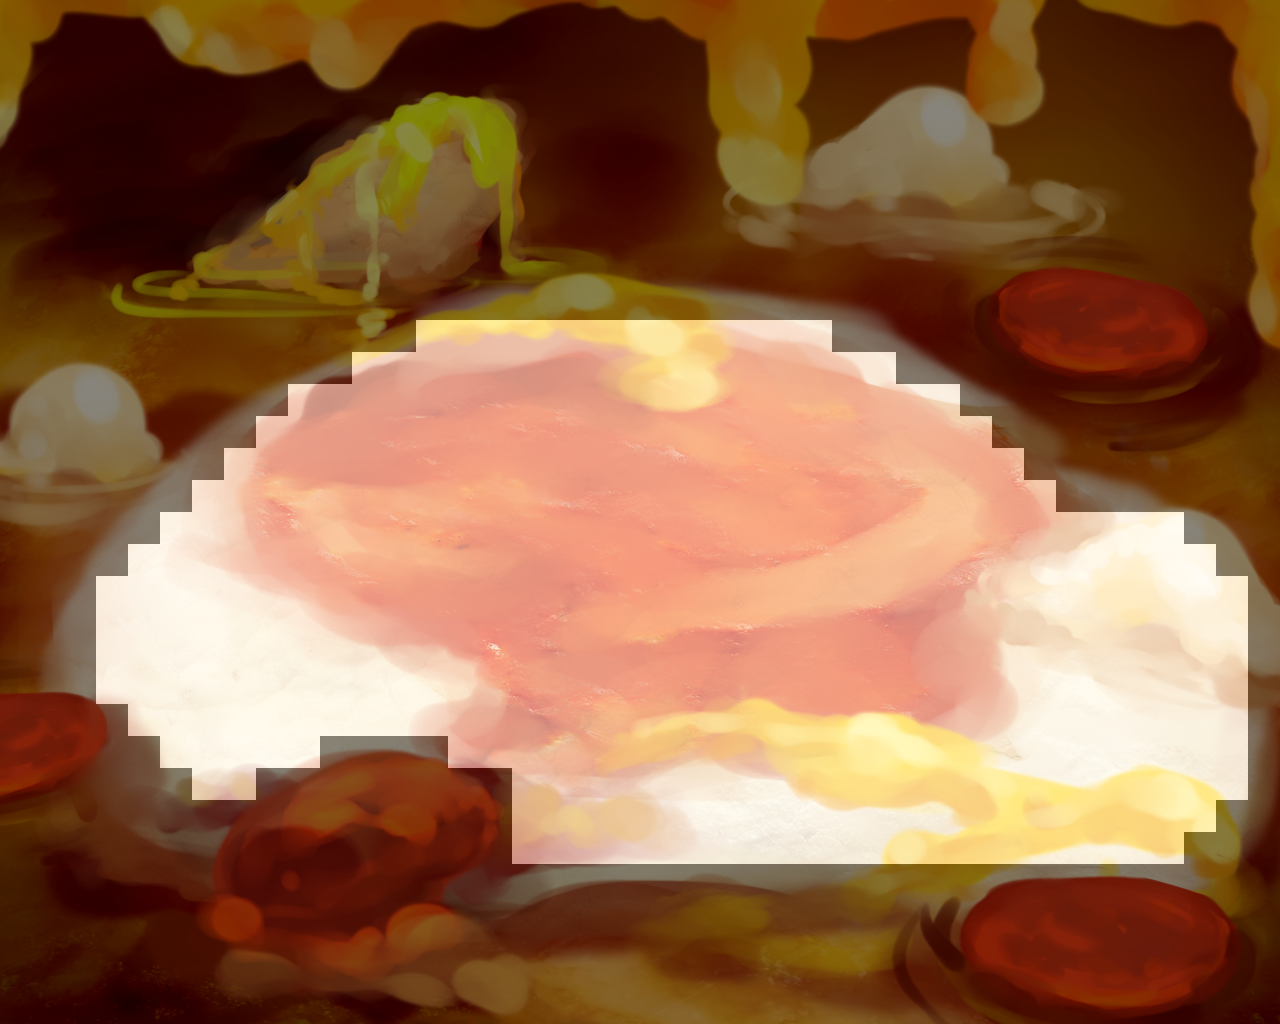
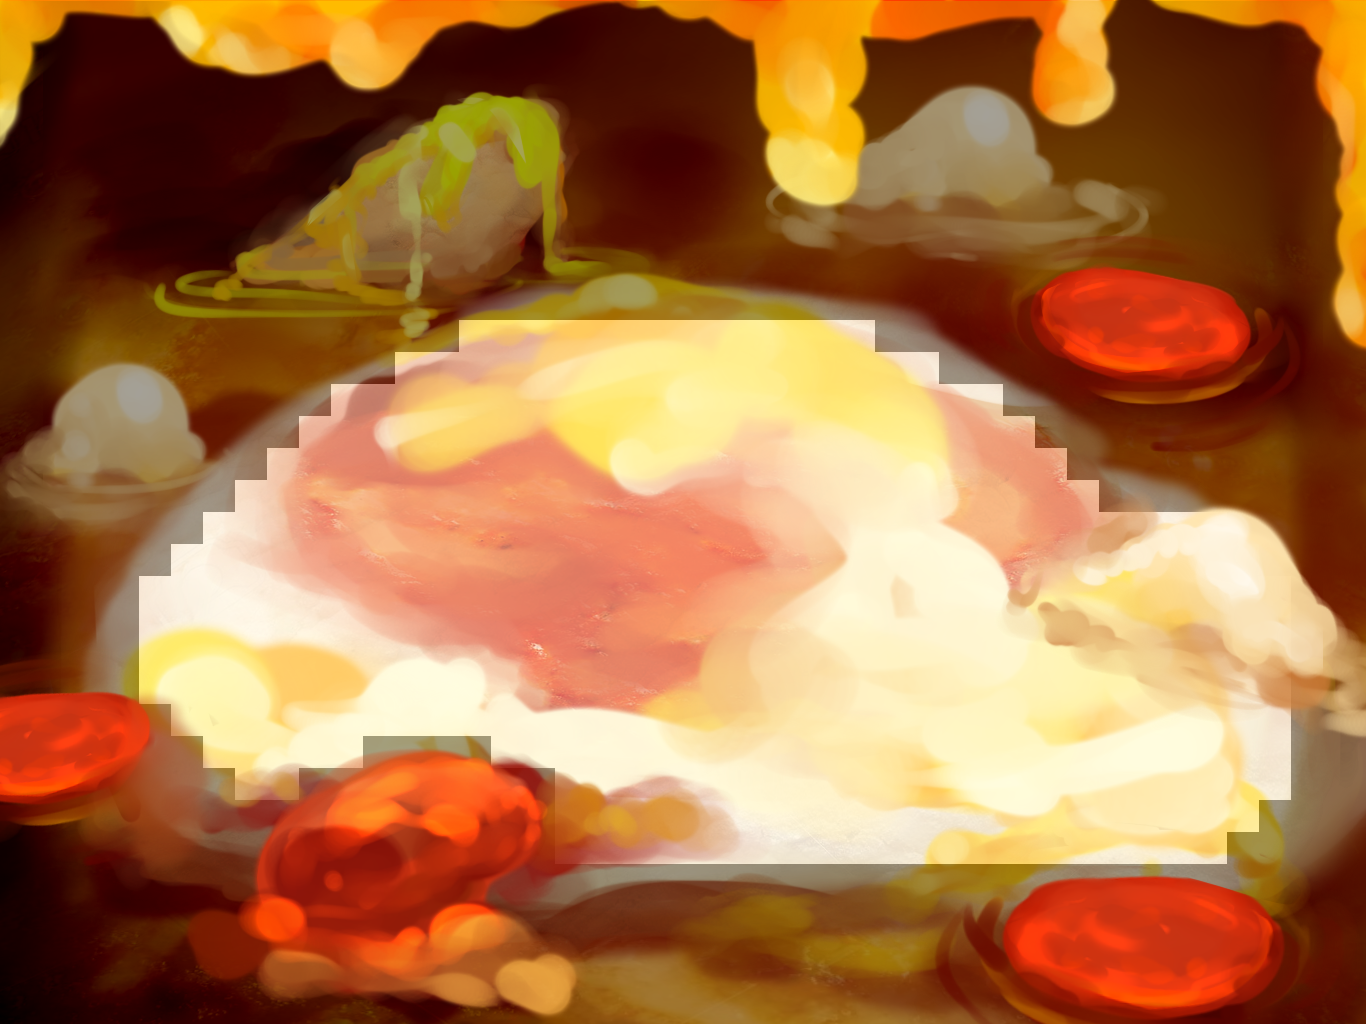
window size change and small improvements
- change window size, wider and shorter
- add foreground to dessert map
- smaller hp bars
-

diff --git a/src/maps/map_objects.cpp b/src/maps/map_objects.cpp
@@ -12,16 +12,6 @@ ECS::Entity CheeseBlob::createCheeseBlob(vec2 position)
 		RenderSystem::createSprite(resource, objectsPath("cheese-texture.png"), "bloblike");
 	}
 
-	// uncomment this if you want to try loading a textured mesh... right now it loads but its a tiny af square
-	//if (resource.mesh.vertices.size() == 0)
-	//{
-	//	// this mesh loader doesn't support textures, if you load "blob-convert-mesh.obj" it works but then there's no texture coords
-	//	// and then we can't see the image
-	//	// so we'd have to create our own obj loader...
-	//	resource.mesh.loadFromOBJFile(objectsPath("blob-mesh2.obj"));
-	//	RenderSystem::CreateTexturedMesh(resource, objectsPath("cheese-texture.png"), "bloblike");
-	//}
-
 	entity.emplace<ShadedMeshRef>(resource);
 	entity.emplace<RenderableComponent>(RenderLayer::MAP_OBJECT);
 
@@ -31,12 +21,34 @@ ECS::Entity CheeseBlob::createCheeseBlob(vec2 position)
 	motion.angle = 0.f;
 	motion.velocity = { 0.f, 0.f };
 	motion.scale = vec2({ 1.f, 1.f });
-
-	// use this scale if you're doing a mesh to see it cause their current loader normalizes the mesh size to tiny
-	//motion.scale = vec2({ 100f, -100f });
-	//motion.boundingBox = motion.scale * vec2({ resource.texture.size.x, resource.texture.size.y });
 	
 	entity.emplace<CheeseBlob>();
+
+	return entity;
+};
+
+ECS::Entity DessertForeground::createDessertForeground(vec2 position)
+{
+	auto entity = ECS::Entity();
+
+	std::string key = "dessertmap_foreground";
+	ShadedMesh& resource = cacheResource(key);
+	if (resource.effect.program.resource == 0)
+	{
+		RenderSystem::createSprite(resource, mapsPath("dessert-arena/dessert-arena-front.png"), "textured");
+	}
+
+	entity.emplace<ShadedMeshRef>(resource);
+	entity.emplace<RenderableComponent>(RenderLayer::MAP_FOREGROUND);
+
+	// Setting initial motion values
+	Motion& motion = entity.emplace<Motion>();
+	motion.position = position;
+	motion.angle = 0.f;
+	motion.velocity = { 0.f, 0.f };
+	motion.scale = vec2({ 1.f, 1.f });
+
+	entity.emplace<DessertForeground>();
 
 	return entity;
 };

diff --git a/src/main.cpp b/src/main.cpp
@@ -25,8 +25,8 @@
 
 using Clock = std::chrono::high_resolution_clock;
 
-const ivec2 window_size_in_px = {1280, 1024};
-const vec2 window_size_in_game_units = { 1280, 1024};
+const ivec2 window_size_in_px = { 1366, 900 };
+const vec2 window_size_in_game_units = { 1366, 900 };
 // Note, here the window will show a width x height part of the game world, measured in px. 
 // You could also define a window to show 1.5 x 1 part of your game world, where the aspect ratio depends on your window size.
 

diff --git a/src/game/world.cpp b/src/game/world.cpp
@@ -243,6 +243,10 @@ void WorldSystem::createMap(int frameBufferWidth, int frameBufferHeight)
 	if (config.at("map") == "pizza-arena") {
 		CheeseBlob::createCheeseBlob({ 700, 950 });
 	}
+
+	if (config.at("map") == "dessert-arena") {
+		DessertForeground::createDessertForeground({ 1920, 672 });
+	}
 }
 
 void WorldSystem::createButtons(int frameBufferWidth, int frameBufferHeight)

diff --git a/src/ui/ui_entities.cpp b/src/ui/ui_entities.cpp
@@ -18,7 +18,7 @@ ECS::Entity HPBar::createHPBar(vec2 position)
 	motion.position = position;
 	motion.angle = 0.f;
 	motion.velocity = vec2(0.f);
-	motion.scale = vec2(0.7f);
+	motion.scale = vec2(0.5f, 0.4f);
 	motion.boundingBox = vec2(0.f);
 
 	ECS::registry<HPBar>.emplace(entity);

diff --git a/src/maps/map_objects.hpp b/src/maps/map_objects.hpp
@@ -6,3 +6,8 @@ struct CheeseBlob
 {
 	static ECS::Entity createCheeseBlob(vec2 position);
 };
+
+struct DessertForeground
+{
+	static ECS::Entity createDessertForeground(vec2 position);
+};

diff --git a/src/rendering/render_components.hpp b/src/rendering/render_components.hpp
@@ -14,6 +14,7 @@ enum class RenderLayer {
 	UI_TOOLTIP,
 	UI,
 	UI_ACTIVE_SKILL_FX,
+	MAP_FOREGROUND,
 	SKILL,
 	PLAYER_AND_MOB,
 	MAP_OBJECT,
